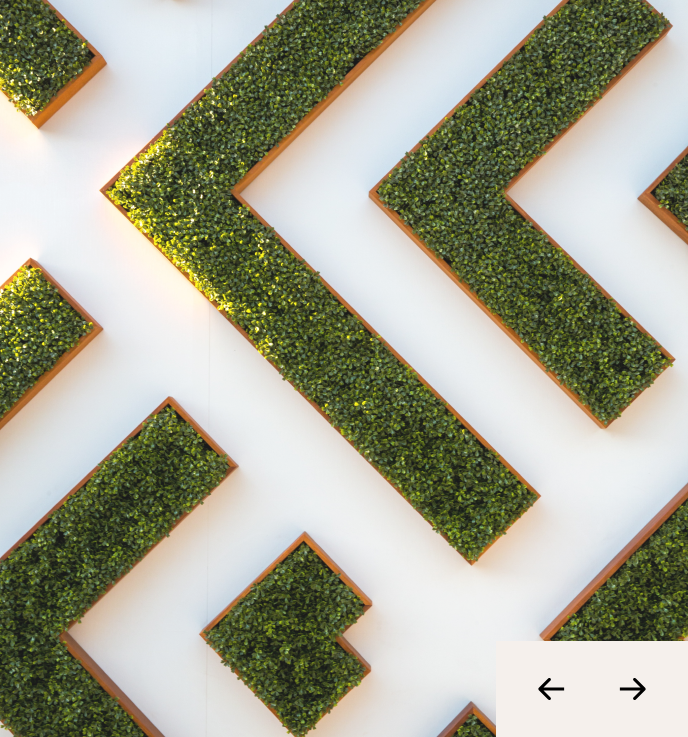
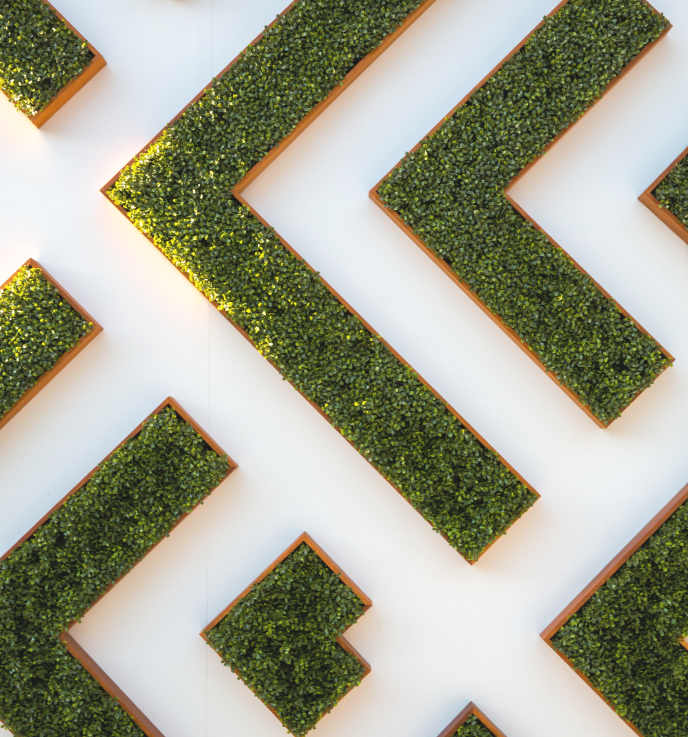
added img to hero section

Changed region(s): [[0.7631, 0.8426, 1.0, 1.0], [0.702, 0.9674, 0.7631, 1.0]]

diff --git a/index.html b/index.html
@@ -48,16 +48,15 @@
     </header>
 
     <!-- HERO BLOCK -->
-    <section>
-      <!-- Content -->
-      <div class="">
-        <h1>Nowoczesna aranżacja Twojego ogrodu</h1>
-        <p>
+    <section class="flex items-center bg-beige">
+      <div class="px-20">
+        <h1 class="mb-11">Nowoczesna aranżacja Twojego ogrodu</h1>
+        <p class="mb-20">
           Marka GiardDesign to wieloletnie doświadczenie i wysoka estetyka
           realizacji. Oferujemy kompleksowy zakres usług z indywidualnym
           podejściem do każdego projektu.
         </p>
-        <div class="flex">
+        <div class="flex gap-9">
           <button class="btn text-white bg-green">Skontaktuj się z nami</button>
 
           <button class="flex btn border text-green border-green">
@@ -70,6 +69,7 @@
           </button>
         </div>
       </div>
+      <img src="./src/img/hero-img.png" alt="garden" />
     </section>
   </body>
 </html>

diff --git a/main.css b/main.css
@@ -552,6 +552,14 @@ video {
   margin-left: 0.5rem;
 }
 
+.mb-11 {
+  margin-bottom: 2.75rem;
+}
+
+.mb-20 {
+  margin-bottom: 5rem;
+}
+
 .flex {
   display: flex;
 }
@@ -584,12 +592,24 @@ video {
   flex-direction: column;
 }
 
+.items-center {
+  align-items: center;
+}
+
+.justify-center {
+  justify-content: center;
+}
+
 .justify-around {
   justify-content: space-around;
 }
 
 .gap-12 {
   gap: 3rem;
+}
+
+.gap-9 {
+  gap: 2.25rem;
 }
 
 .whitespace-nowrap {
@@ -615,9 +635,19 @@ video {
   background-color: rgb(255 255 255 / var(--tw-bg-opacity));
 }
 
+.bg-beige {
+  --tw-bg-opacity: 1;
+  background-color: rgb(220 193 171 / var(--tw-bg-opacity));
+}
+
 .py-6 {
   padding-top: 1.5rem;
   padding-bottom: 1.5rem;
+}
+
+.px-20 {
+  padding-left: 5rem;
+  padding-right: 5rem;
 }
 
 .text-green {
